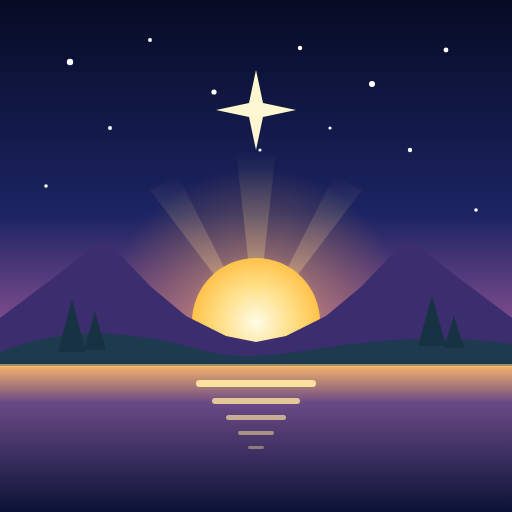
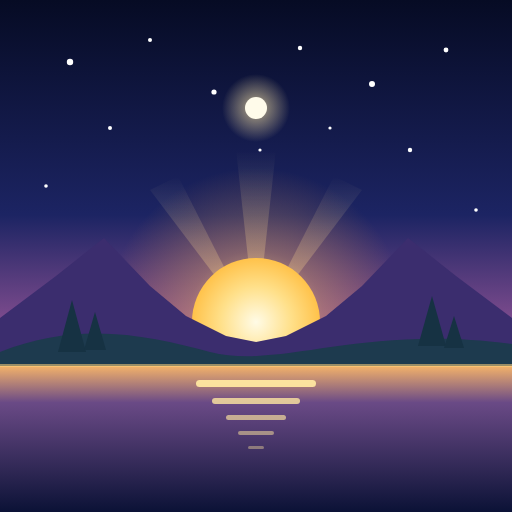
Εικονίδιο χωρίς σταυρό, για όλες τις θρησκείες — 13-10-2026
Claude-Session: https://claude.ai/code/session_01NuseZ89c1jsxj3PoXzFG9M

Changed region(s): [[0.4375, 0.1562, 0.5625, 0.2812]]

diff --git a/sw.js b/sw.js
@@ -5,7 +5,7 @@
    στην cache μόλις τα δει/ακούσει ένας επισκέπτης.
    ================================================ */
 
-const CACHE = 'proseyxitari-v5'; // 13-10-2026: νέα εικονίδια + υπογραφή
+const CACHE = 'proseyxitari-v6'; // 13-10-2026 v2: εικονίδιο χωρίς σταυρό + υπογραφή
 
 const PRECACHE = [
   './',
